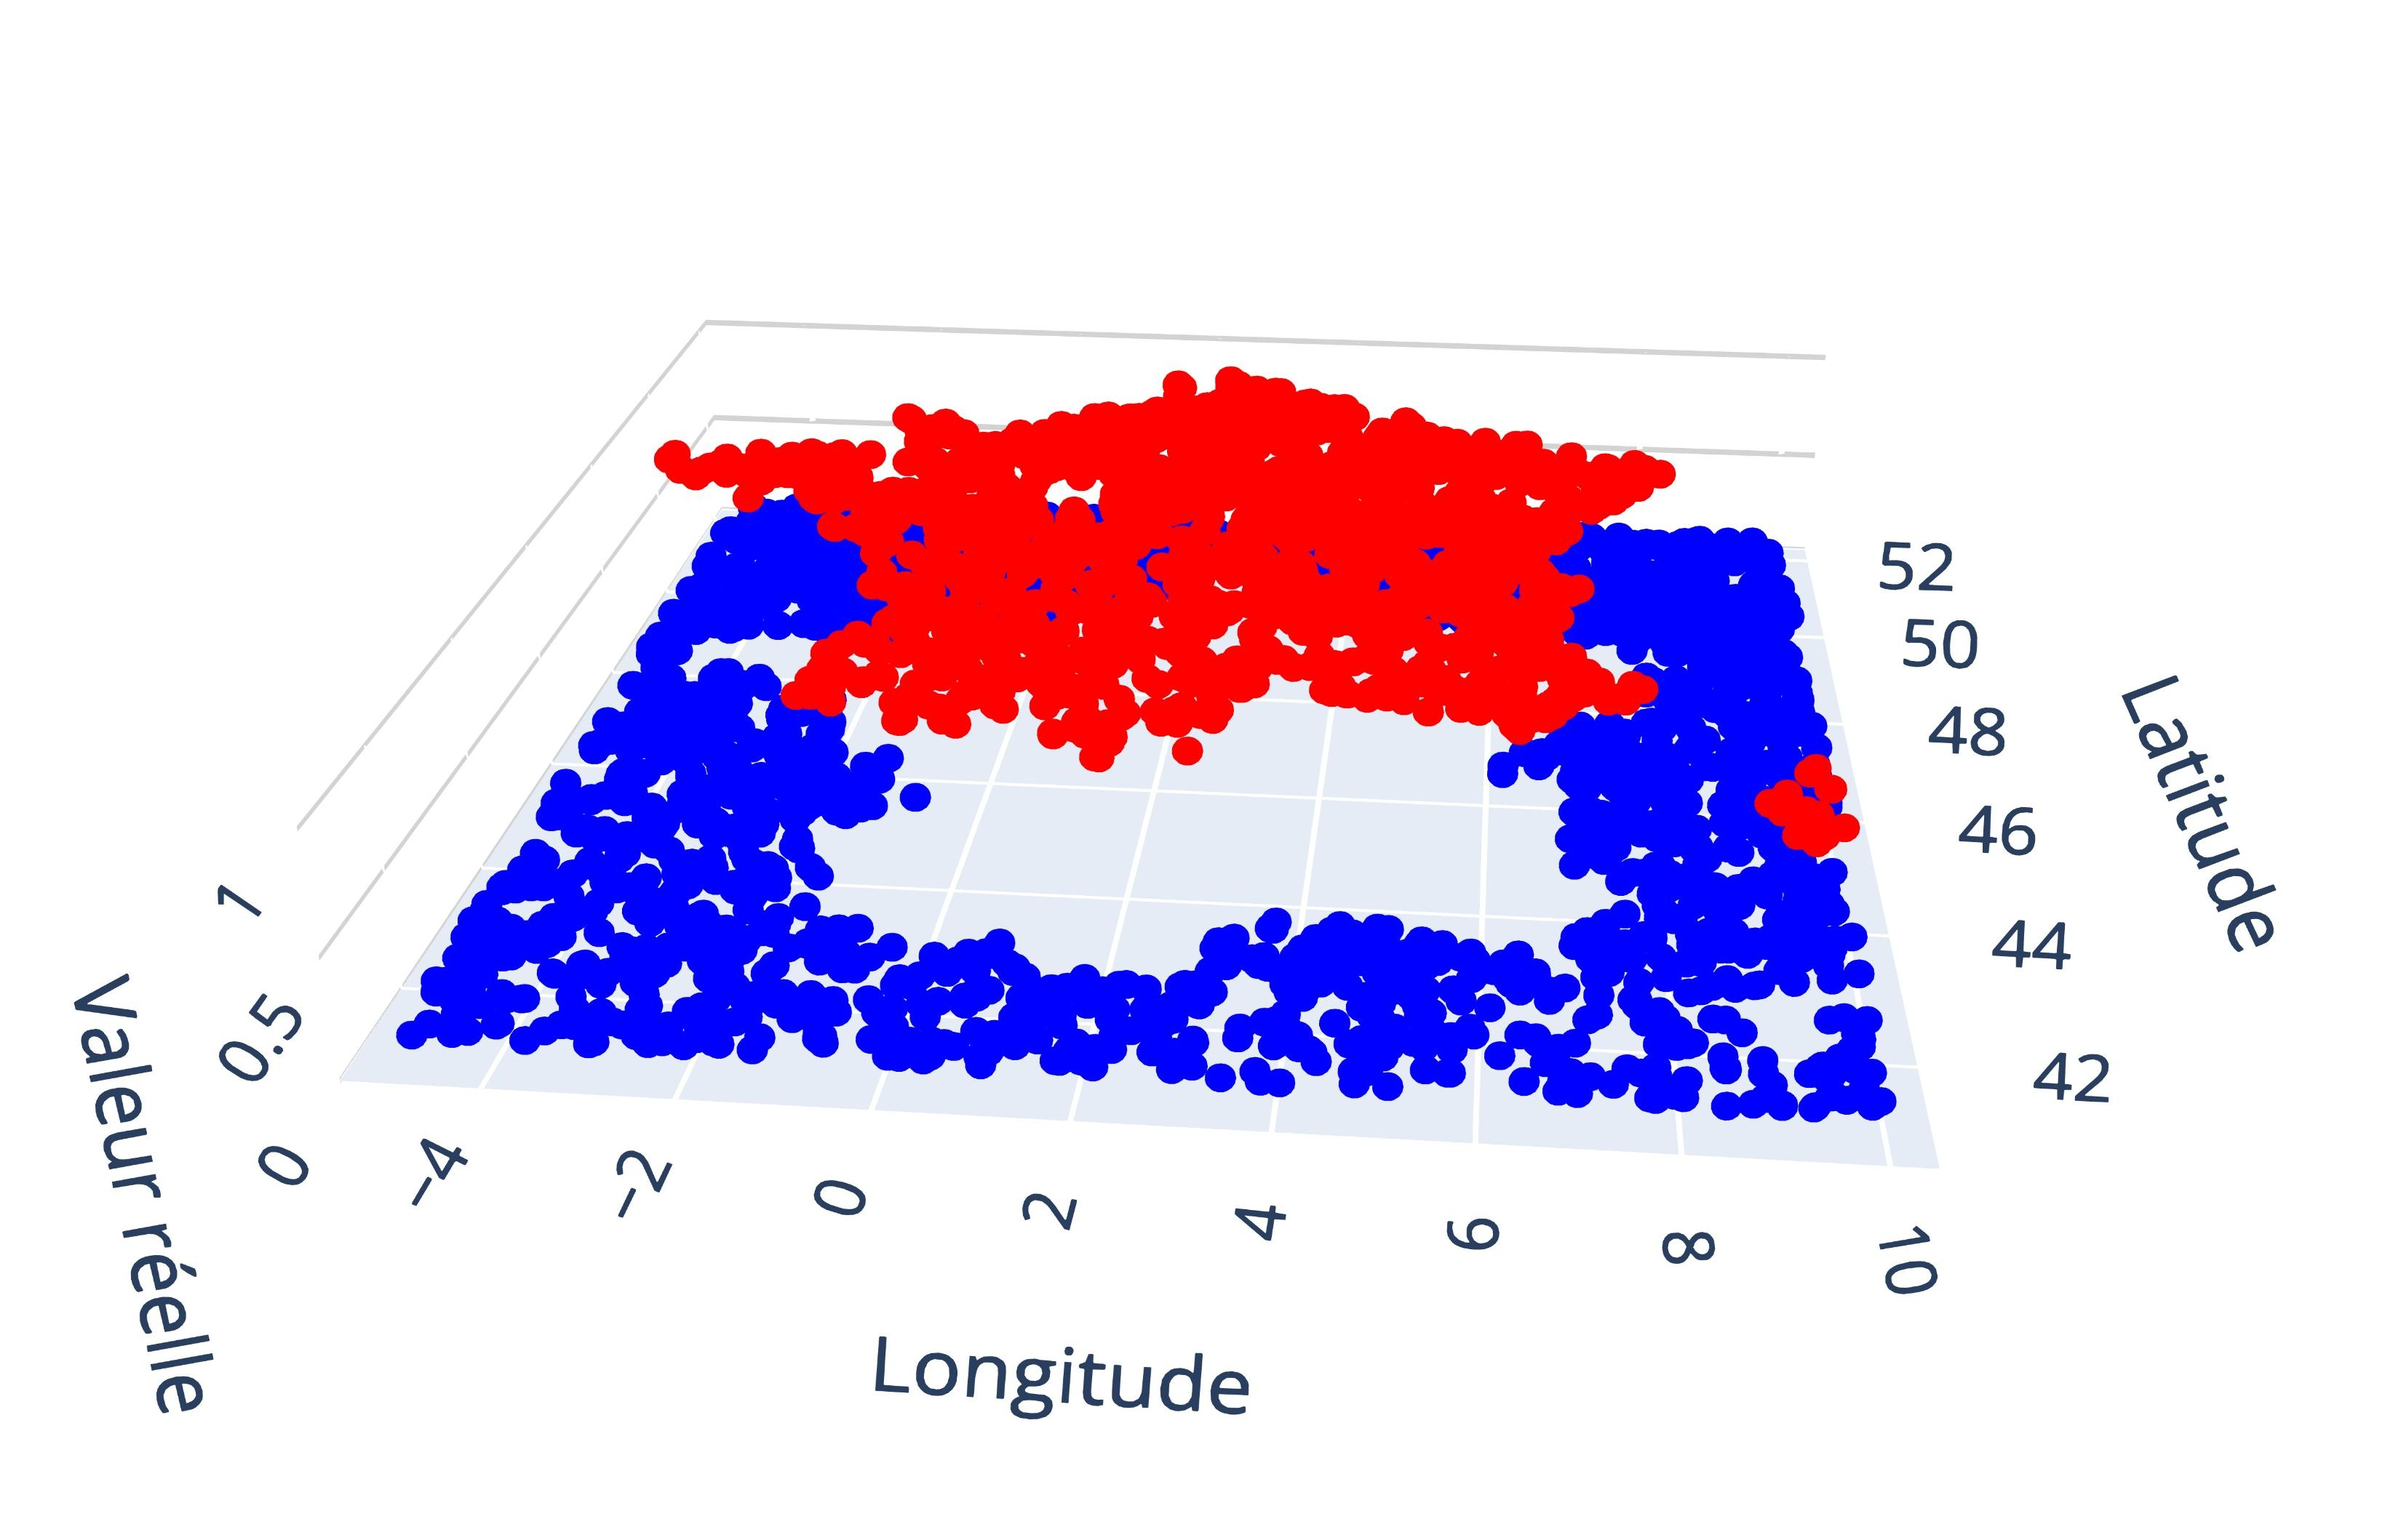
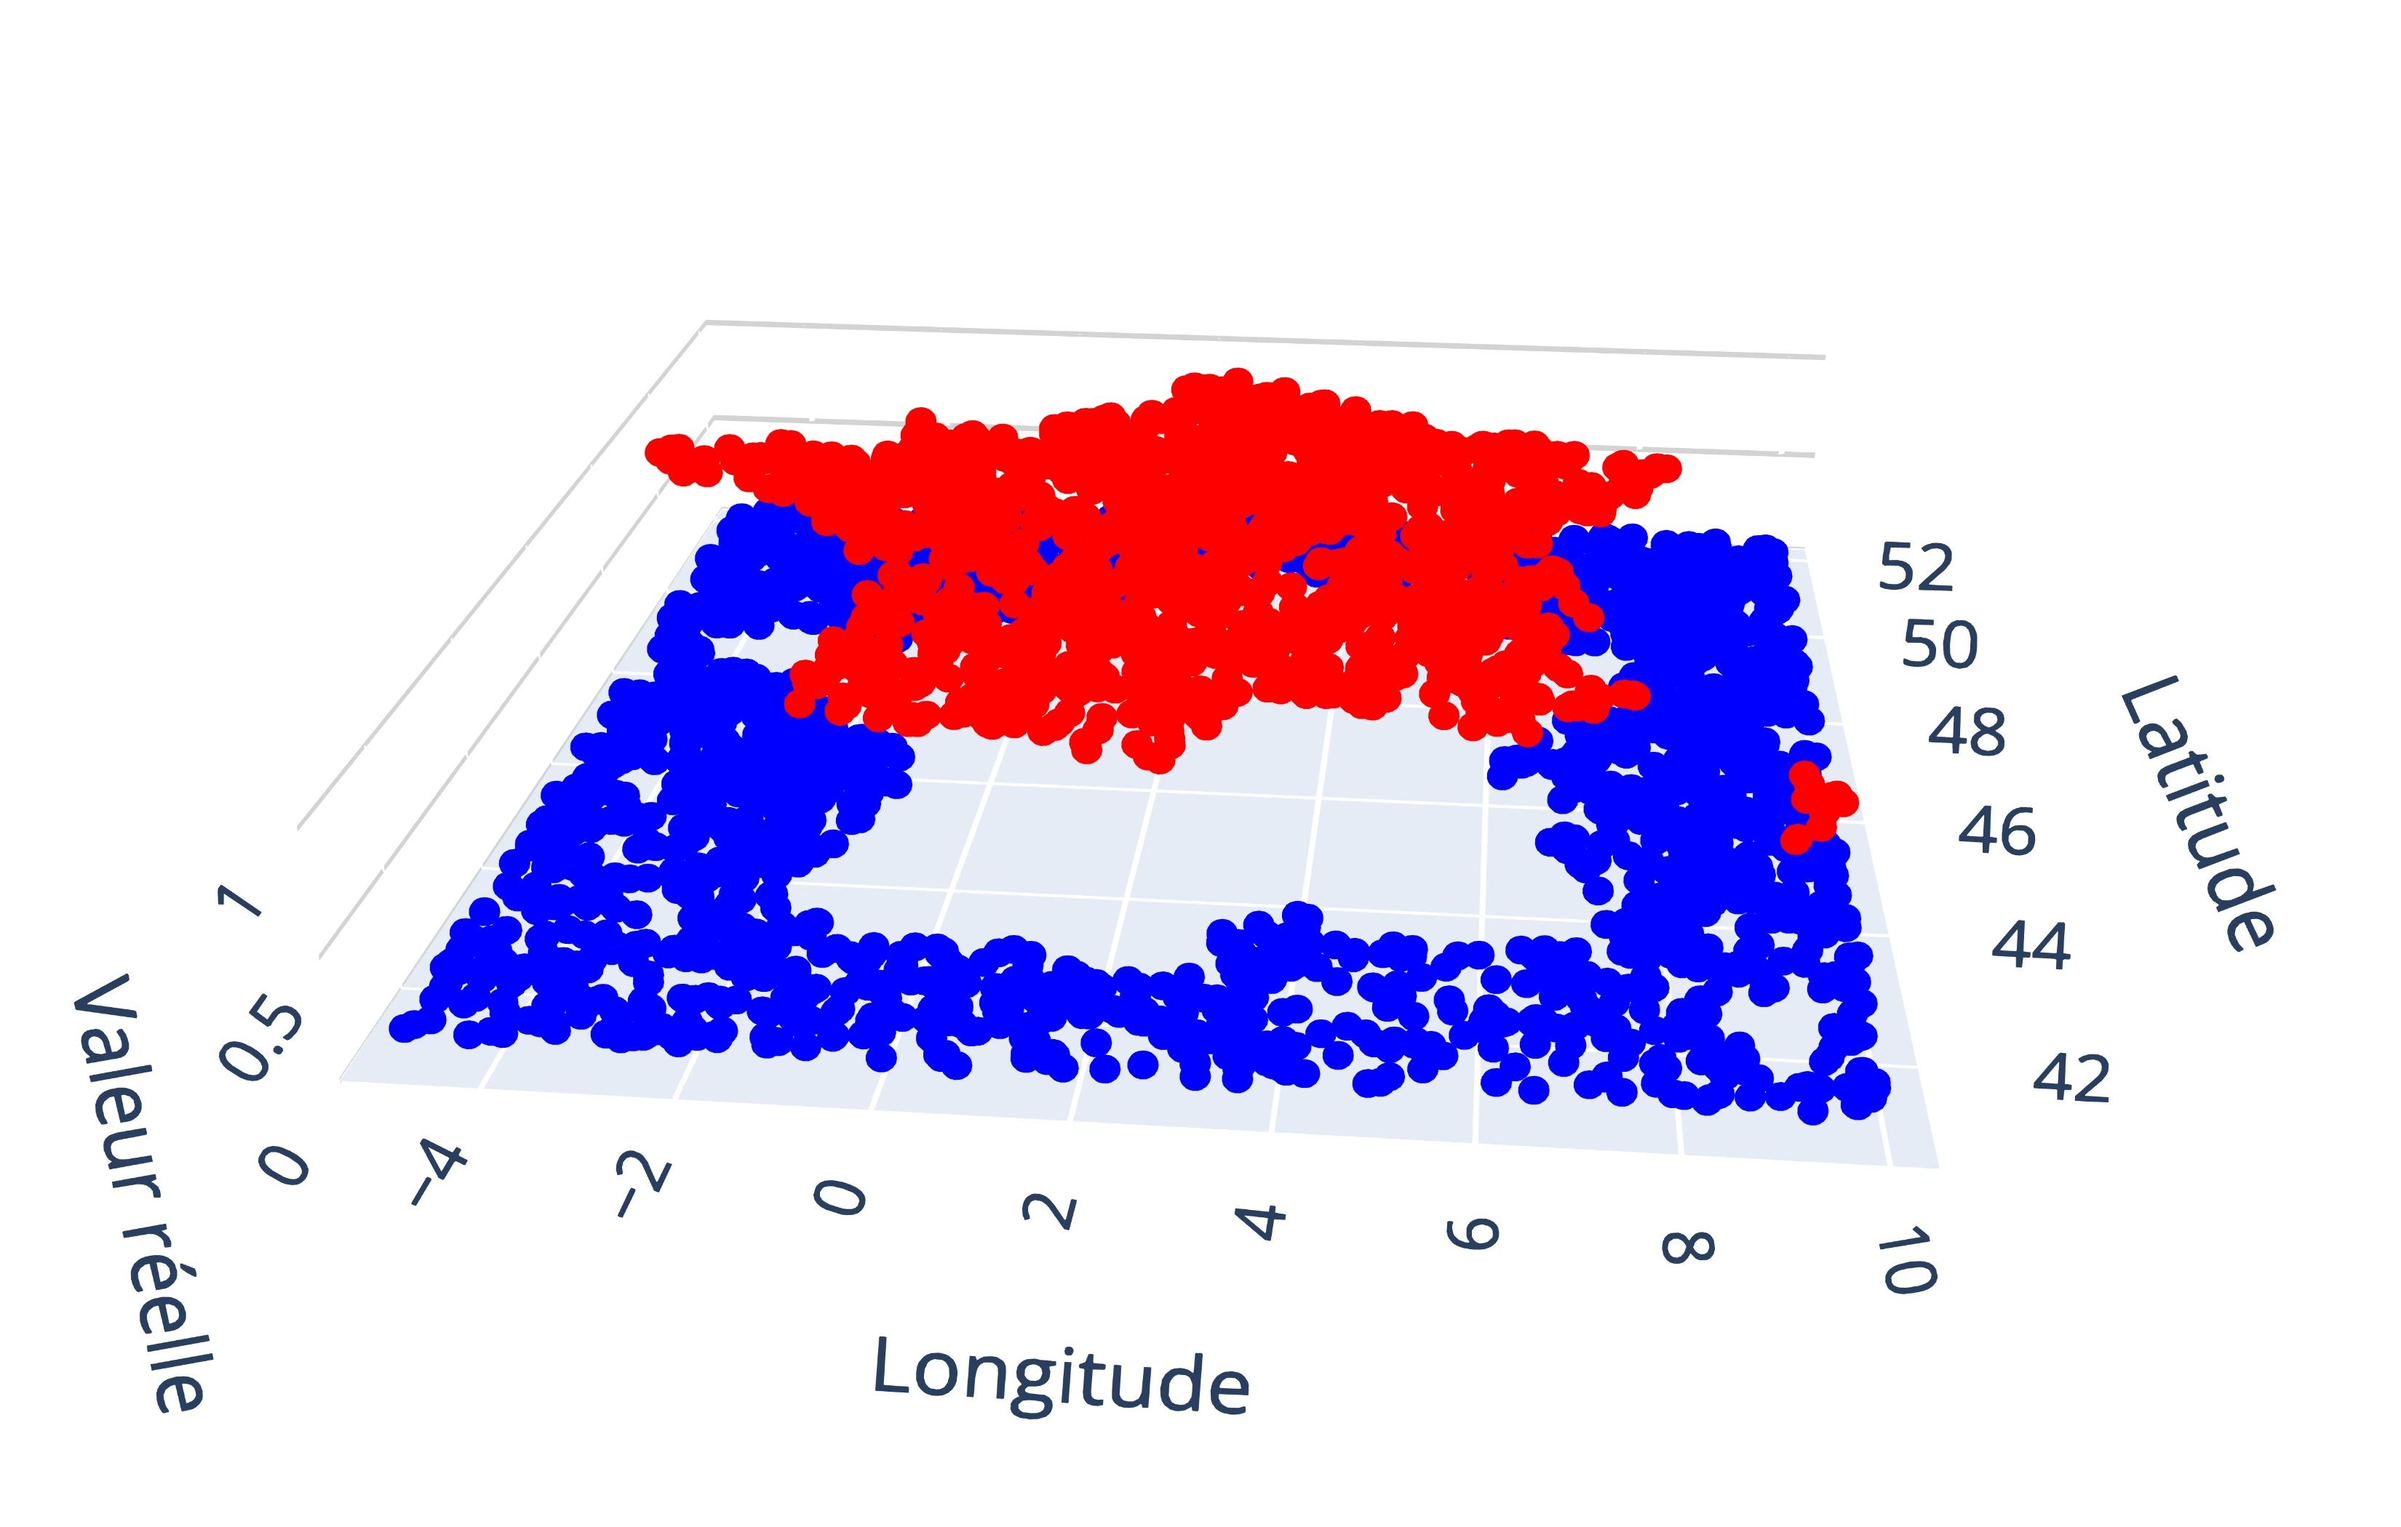
Fix figure 7 overfitting

diff --git a/src/graphes_livre/7_surface_overfitting_underfitting/plot.py b/src/graphes_livre/7_surface_overfitting_underfitting/plot.py
@@ -163,13 +163,13 @@ def main():
 
     # Define the loss function and optimizer
     criterion = nn.BCELoss()  # Binary Cross Entropy Loss
-    learning_rate = 5e-4
+    learning_rate = 1e-4
     optimizer = optim.Adam(model.parameters(), lr=learning_rate)
 
     # Training loop
-    num_epochs = 50000
+    num_epochs = 100000
     lr_scheduler = torch.optim.lr_scheduler.CosineAnnealingLR(
-        optimizer, T_max=num_epochs, eta_min=learning_rate / 10, last_epoch=-1
+        optimizer, T_max=num_epochs, eta_min=learning_rate / 5, last_epoch=-1
     )
     pbar = tqdm(range(num_epochs))
     losses = []
@@ -259,7 +259,9 @@ def main():
     scene_config["zaxis"]["title"] = "Prédiction"
 
     dictionnaire_fonctions = {
-        "neural_net": lambda lon_grid, lat_grid: neural_net(lon_grid, lat_grid, model),
+        "reseau_neuronal": lambda lon_grid, lat_grid: neural_net(
+            lon_grid, lat_grid, model
+        ),
         "underfitting": underfitting_gaussian,
         "overfitting": overfitting_nearest_neightbor,
     }
